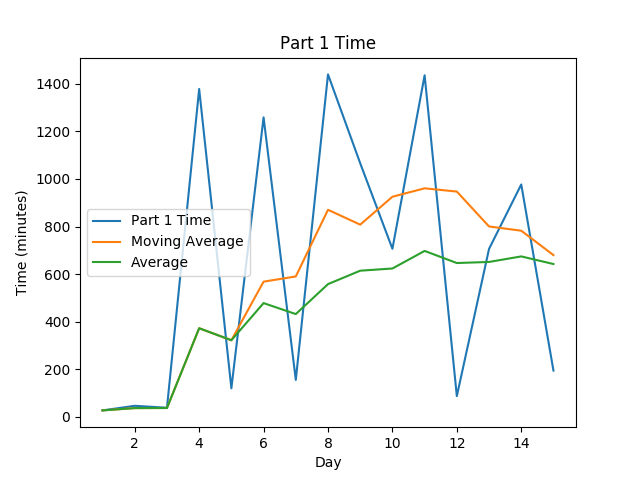
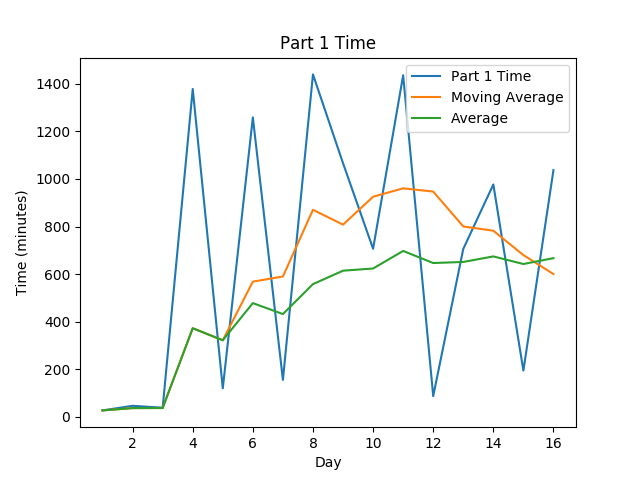
Stats for day 16

diff --git a/README.md b/README.md
@@ -39,7 +39,8 @@ it in OOP, but this is good enough for now!
 |  13 | 11:45:51 ( 6814) (  0)     | 12:31:12 ( 4959) (  0)     |
 |  14 | 16:16:57 ( 4525) (  0)     | 16:37:36 ( 3903) (  0)     |
 |  15 | 03:14:01 ( 1249) (  0)     | 03:56:58 ( 1177) (  0)     |
-| Avg | 10:42:18 ( 7330) (  0)     | 08:11:46 ( 6634) (  0)     |
+|  16 | 17:17:17 ( 6078) (  0)     | 17:42:15 ( 3332) (  0)     |
+| Avg | 11:07:00 ( 7252) (  0)     | 08:47:25 ( 6427) (  0)     |
 
 
 <img alt="Part 1 Time Stats" src="statsImages/part1time.png" width=400> <img alt="Part 1 Rank" src="statsImages/part1rank.png" width=400>
